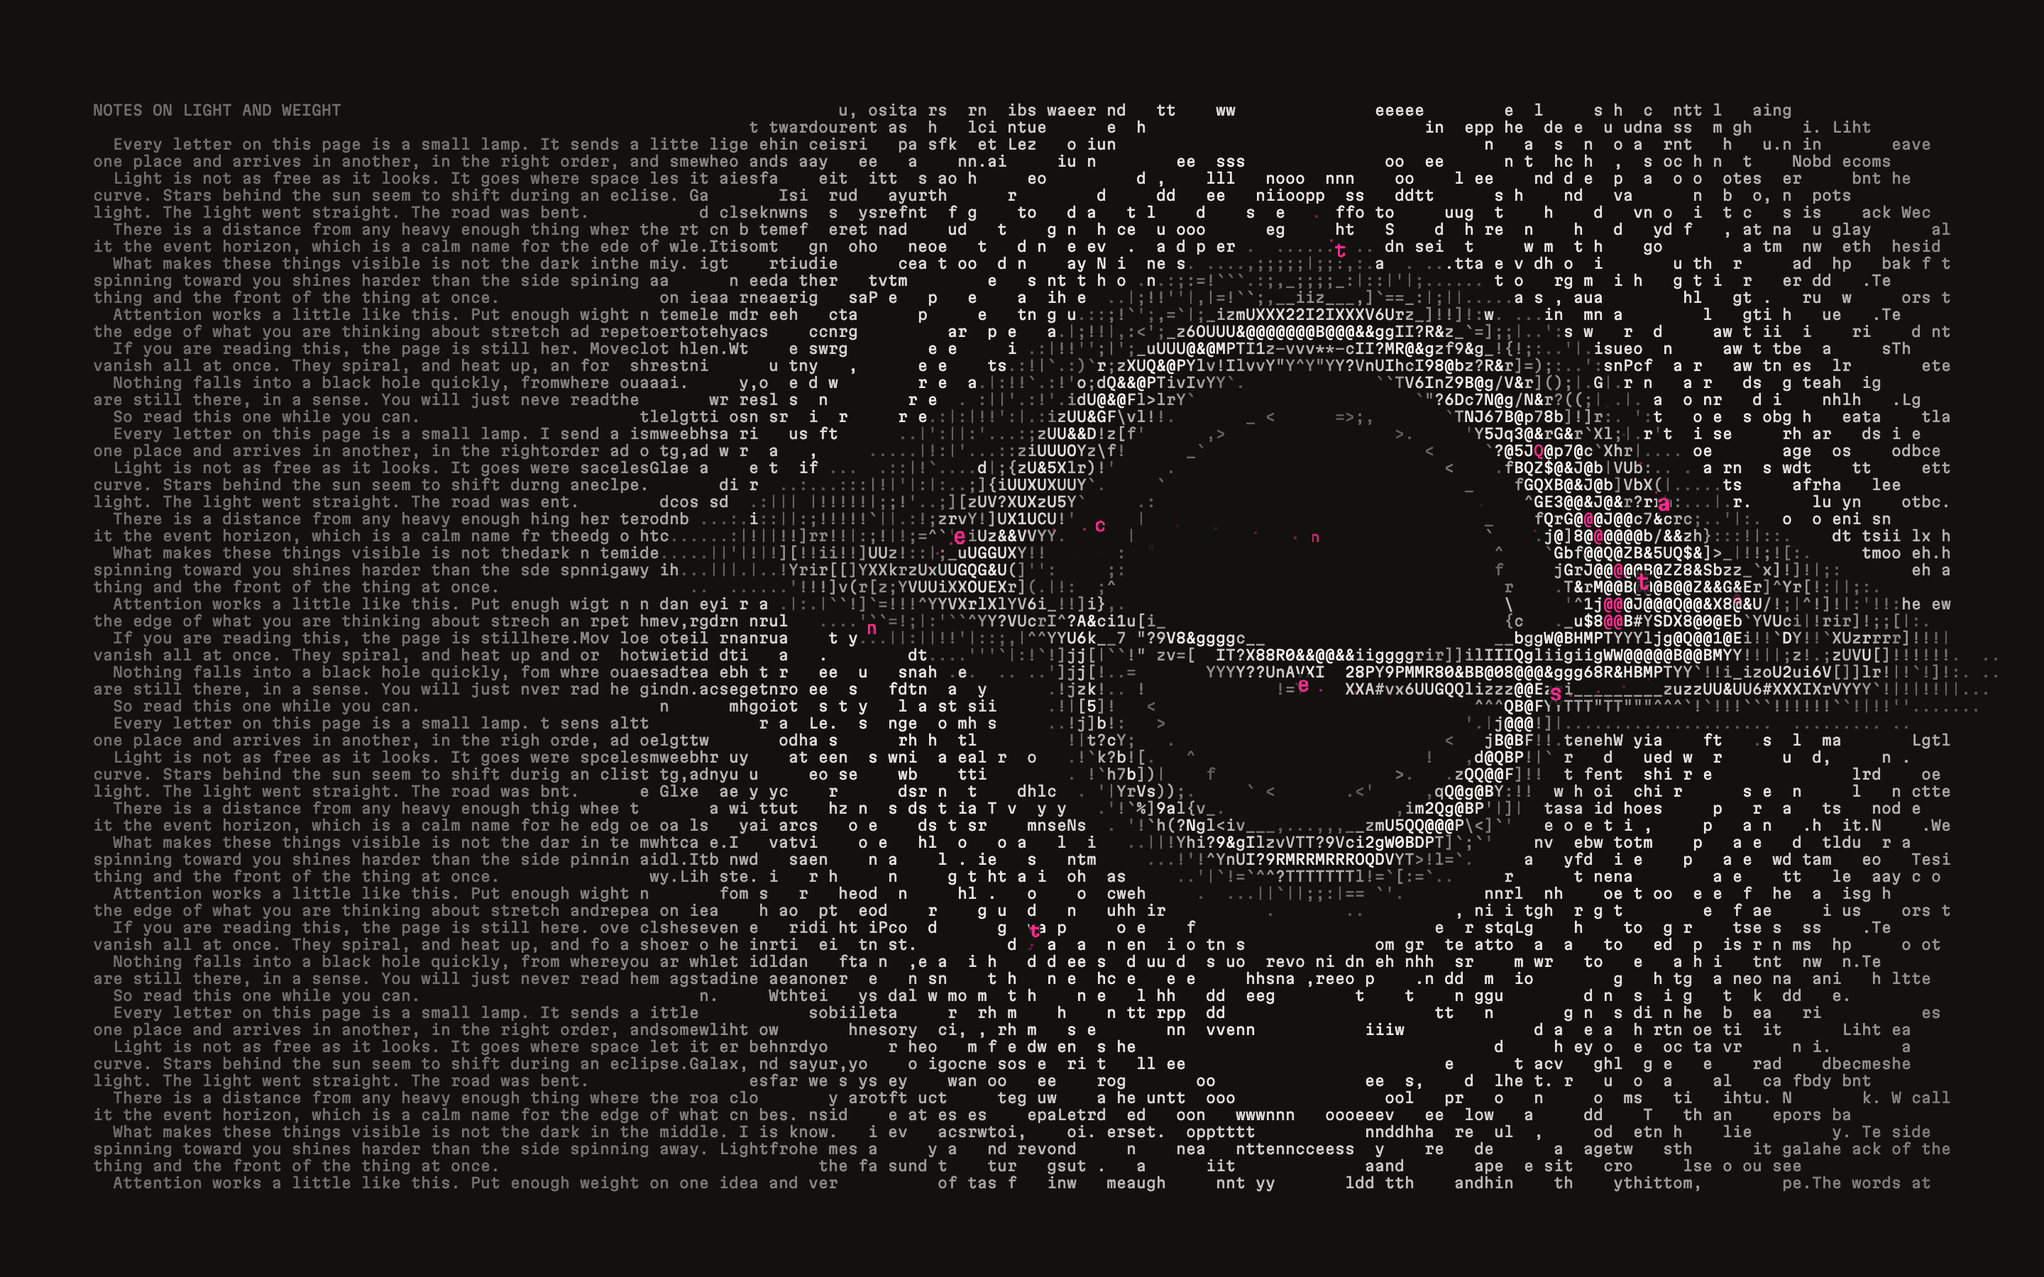
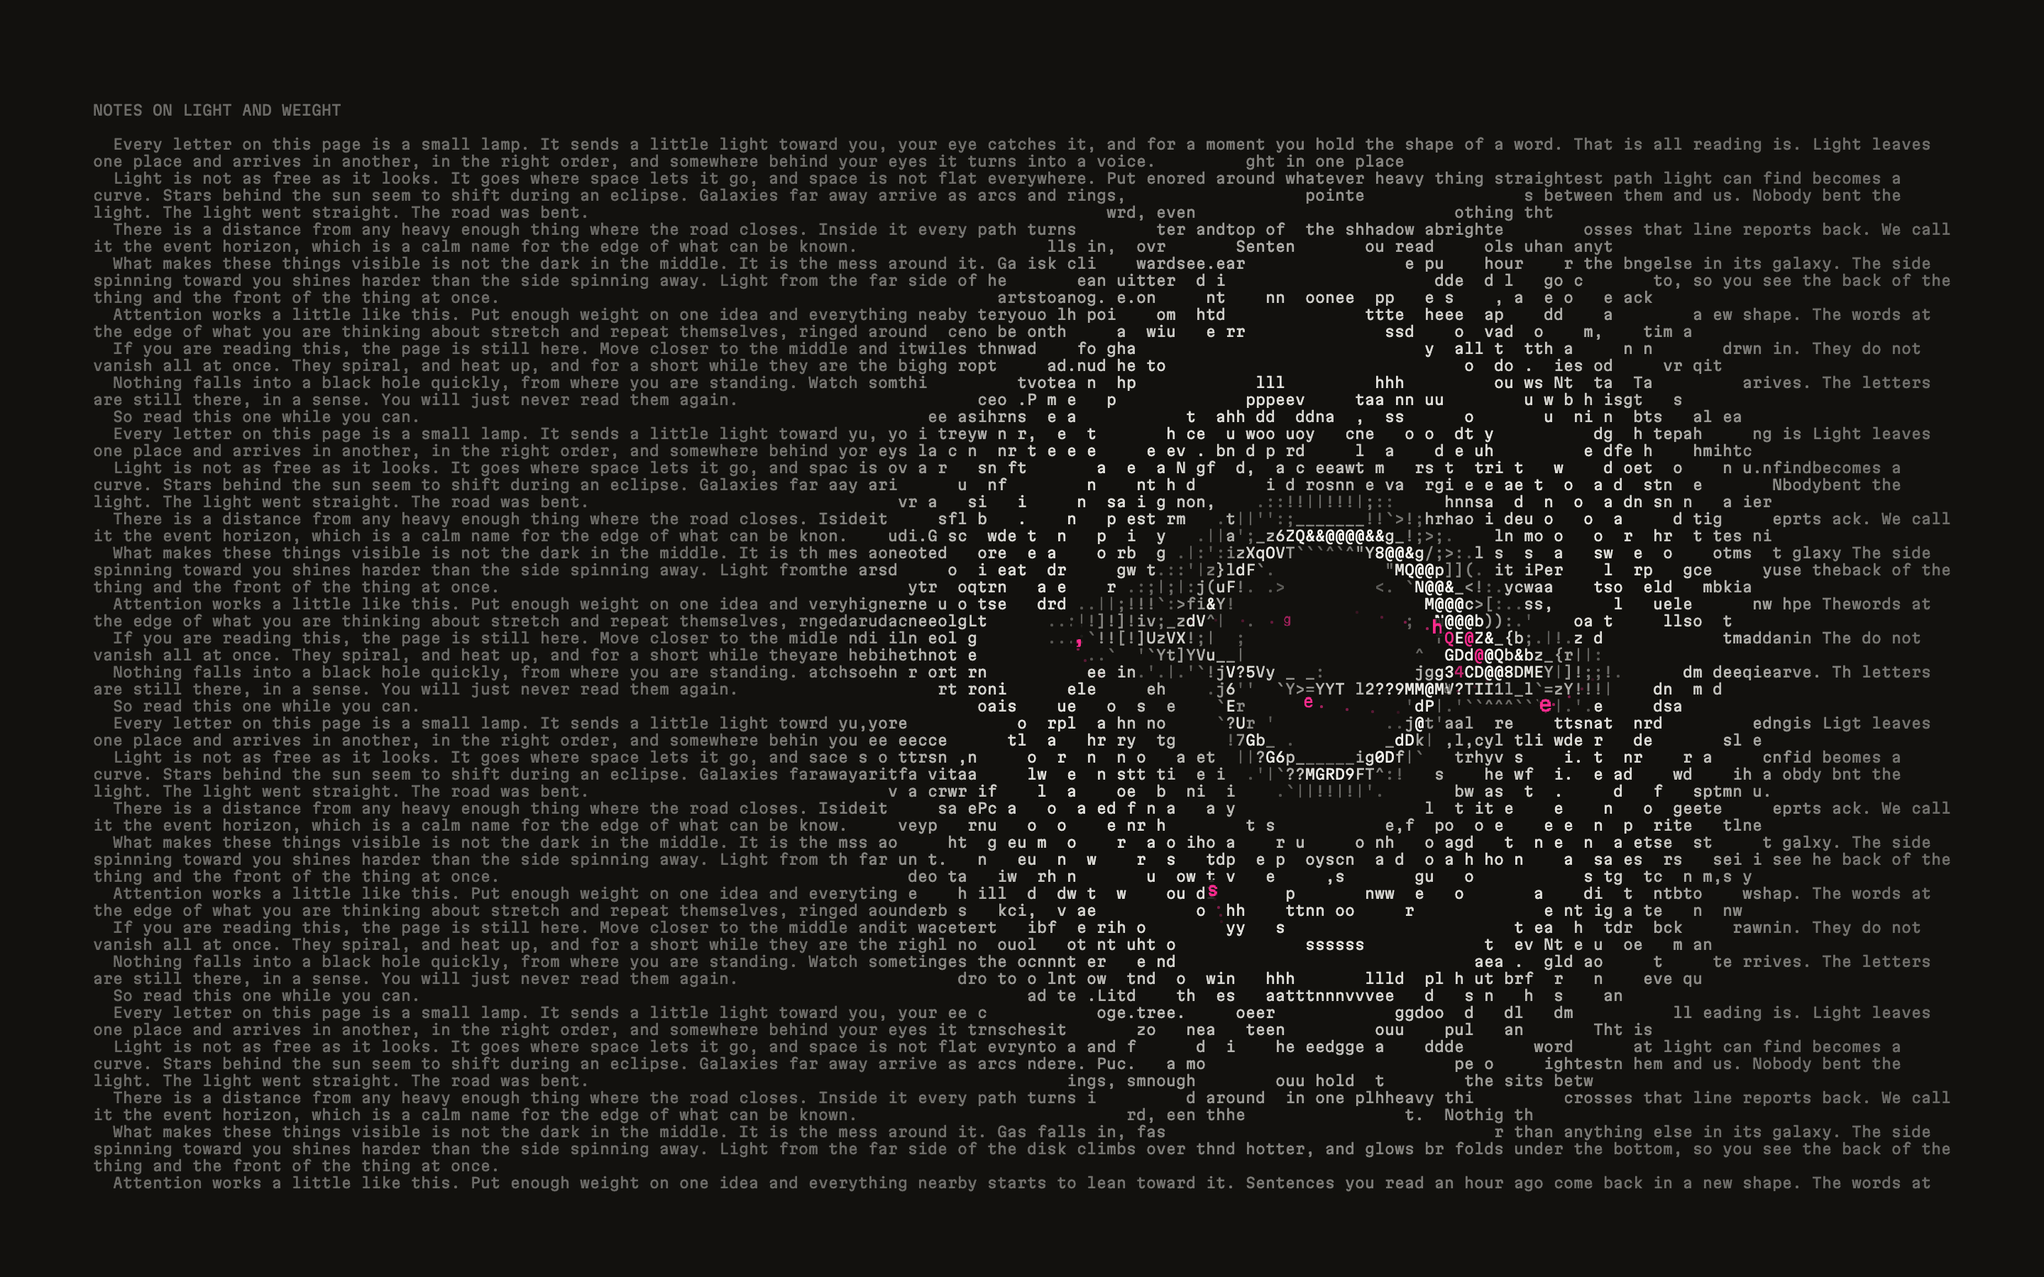
Smaller hole by default, no mouse steering
The hole now defaults to mass 0.45 and only drifts on its own. Click feeds,
drag tilts and scroll sets mass. Refresh the demo gif and screenshots.

Claude-Session: https://claude.ai/code/session_012tc5q7iBU7T3r3gFG3KRyg

Changed region(s): [[0.25, 0.0622, 0.9688, 0.9333]]

diff --git a/src/ui/pointer.js b/src/ui/pointer.js
@@ -1,5 +1,5 @@
 import { S, save } from '../settings.js';
-import { G, H, st, ptr } from '../state.js';
+import { H, ptr } from '../state.js';
 import { $, clamp } from '../util.js';
 import { stage } from './dom.js';
 import { dropHint } from './hud.js';
@@ -11,16 +11,7 @@ let pinch = null;
 
 export function resetPointers() { pinch = null; pointers.clear(); }
 
-// client pixels to the hole's screen units, origin at the center of the grid
-function toUnit(e) {
-  const r = G.rect || { x: 0, y: 0, w: innerWidth, h: innerHeight };
-  const dpr = G.dpr;
-  const x = ((e.clientX - r.x) * dpr - G.offX - G.gw / 2) / G.unit;
-  const y = -((e.clientY - r.y) * dpr - G.offY - G.gh / 2) / G.unit;
-  return [x, y];
-}
-
-// mouse: move steers, drag tilts, click feeds, wheel sets mass. touch: drag steers, tap feeds, pinch sets mass
+// the hole drifts on its own; click or tap feeds, drag tilts, wheel or pinch sets mass
 export function initPointer() {
   stage.addEventListener('pointermove', (e) => {
     if (!S.mouse) return;
@@ -30,8 +21,7 @@ export function initPointer() {
       setMass(pinch.m * Math.hypot(a.x - b.x, a.y - b.y) / pinch.d);
       return;
     }
-    const touchDrag = e.pointerType !== 'mouse';
-    if (ptr.down && !touchDrag) {
+    if (ptr.down) {
       const dx = e.clientX - ptr.lx, dy = e.clientY - ptr.ly;
       if (!ptr.dragging && Math.hypot(e.clientX - ptr.sx, e.clientY - ptr.sy) > 6) { ptr.dragging = true; stage.classList.add('dragging'); dropHint(); }
       if (ptr.dragging) {
@@ -40,11 +30,7 @@ export function initPointer() {
         syncRange($('#s-tilt')); save();
       }
       ptr.lx = e.clientX; ptr.ly = e.clientY;
-      return;
     }
-    const [x, y] = toUnit(e);
-    ptr.tx = x; ptr.ty = y; ptr.real = true; ptr.lastMove = st.real;
-    if (ptr.down && Math.hypot(e.clientX - ptr.sx, e.clientY - ptr.sy) > 6) { ptr.dragging = false; ptr.moved = true; }
   });
 
   stage.addEventListener('pointerdown', (e) => {
@@ -56,9 +42,7 @@ export function initPointer() {
       pinch = { d: Math.max(10, Math.hypot(a.x - b.x, a.y - b.y)), m: S.mass };
       ptr.down = false; ptr.dragging = false; return;
     }
-    const [x, y] = toUnit(e);
-    if (e.pointerType !== 'mouse') { ptr.tx = x; ptr.ty = y; ptr.real = true; ptr.lastMove = st.real; }
-    ptr.down = true; ptr.dragging = false; ptr.moved = false; ptr.sx = ptr.lx = e.clientX; ptr.sy = ptr.ly = e.clientY; ptr.t0 = performance.now();
+    ptr.down = true; ptr.dragging = false; ptr.sx = ptr.lx = e.clientX; ptr.sy = ptr.ly = e.clientY; ptr.t0 = performance.now();
   });
 
   const endPointer = (e) => {
@@ -68,14 +52,12 @@ export function initPointer() {
     if (!ptr.down) return;
     ptr.down = false;
     stage.classList.remove('dragging');
-    const wasDrag = ptr.dragging || ptr.moved;
+    const wasDrag = ptr.dragging;
     ptr.dragging = false;
     if (!wasDrag && e.type === 'pointerup' && performance.now() - ptr.t0 < 450) { dropHint(); feed(); }
   };
   stage.addEventListener('pointerup', endPointer);
   stage.addEventListener('pointercancel', endPointer);
-  // leaving the stage hands the hole back to the idle drift sooner
-  stage.addEventListener('pointerleave', (e) => { if (S.mouse && e.pointerType === 'mouse' && !ptr.down) ptr.lastMove = st.real - 2; });
   stage.addEventListener('wheel', (e) => {
     e.preventDefault();
     if (!S.mouse) return;

diff --git a/index.html b/index.html
@@ -17,7 +17,7 @@
   <script type="module" src="src/main.js"></script>
 </head>
 <body>
-  <main class="stage" id="stage" aria-label="A page of text with a black hole on it, drawn live in letters. Move to steer the hole, click to feed it, drag to tilt its disk, scroll to change its mass.">
+  <main class="stage" id="stage" aria-label="A page of text with a black hole on it, drawn live in letters. Click to feed the hole, drag to tilt its disk, scroll to change its mass.">
     <canvas id="cv"></canvas>
     <noscript><p class="fallback">This demo renders live with JavaScript and WebGL 2.</p></noscript>
   </main>
@@ -40,7 +40,7 @@
     <div class="meta">
       <span class="hint" id="hint"></span>
       <span class="stats" id="stats" hidden></span>
-      <span class="mass" id="mass">M 1.00</span>
+      <span class="mass" id="mass">M 0.45</span>
     </div>
   </footer>
 
@@ -49,12 +49,12 @@
   <aside class="panel" id="panel" aria-label="Settings">
     <section class="grp">
       <h2>Hole</h2>
-      <div class="rngrow"><div class="row"><label for="s-mass">Mass</label><output id="o-mass" for="s-mass"></output></div><input class="rng" id="s-mass" type="range" min="0.4" max="1.8" step="0.01" data-k="mass"></div>
+      <div class="rngrow"><div class="row"><label for="s-mass">Mass</label><output id="o-mass" for="s-mass"></output></div><input class="rng" id="s-mass" type="range" min="0.2" max="1.8" step="0.01" data-k="mass"></div>
       <div class="rngrow"><div class="row"><label for="s-bright">Disk brightness</label><output id="o-bright" for="s-bright"></output></div><input class="rng" id="s-bright" type="range" min="0" max="2" step="0.05" data-k="bright"></div>
       <div class="rngrow"><div class="row"><label for="s-spin">Spin</label><output id="o-spin" for="s-spin"></output></div><input class="rng" id="s-spin" type="range" min="0" max="2" step="0.05" data-k="spin"></div>
       <div class="rngrow"><div class="row"><label for="s-tilt">Tilt</label><output id="o-tilt" for="s-tilt"></output></div><input class="rng" id="s-tilt" type="range" min="0" max="88" step="1" data-k="tilt"></div>
       <div class="row"><span class="lb" id="l-eat">Eat letters</span><button class="sw" role="switch" data-k="eat" aria-labelledby="l-eat"><i></i></button></div>
-      <div class="row"><span class="lb" id="l-mouse">Mouse steers</span><button class="sw" role="switch" data-k="mouse" aria-labelledby="l-mouse" aria-keyshortcuts="M"><i></i></button></div>
+      <div class="row"><span class="lb" id="l-mouse">Mouse controls</span><button class="sw" role="switch" data-k="mouse" aria-labelledby="l-mouse" aria-keyshortcuts="M"><i></i></button></div>
       <div class="row"><span class="lb" id="l-drift">Drift when idle</span><button class="sw" role="switch" data-k="drift" aria-labelledby="l-drift"><i></i></button></div>
     </section>
 
@@ -88,7 +88,7 @@
         <dt>1, 2, 3</dt><dd>Edge on, tilted, face on</dd>
         <dt>Up, Down</dt><dd>More or less mass</dd>
         <dt>F</dt><dd>Feed the hole</dd>
-        <dt>M</dt><dd>Mouse steers on or off</dd>
+        <dt>M</dt><dd>Mouse on or off</dd>
         <dt>H</dt><dd>Hide the interface</dd>
         <dt>S</dt><dd>Settings</dd>
         <dt>T</dt><dd>Next theme</dd>

diff --git a/src/sim/tick.js b/src/sim/tick.js
@@ -1,7 +1,7 @@
 import { THEMES } from '../config.js';
 import { S, reduced } from '../settings.js';
 import { G, H, U, st, ptr, perf, col } from '../state.js';
-import { clamp, ss, lerp, hex, DEG } from '../util.js';
+import { clamp, ss, hex, DEG } from '../util.js';
 import { el } from '../ui/dom.js';
 import { syncSpec } from '../ui/hud.js';
 import { introAt } from './hole.js';
@@ -10,24 +10,18 @@ import { eat, stepParts } from './eat.js';
 let fpsE = 60, statT = 0;
 
 export function tick(dt) {
-  st.real += dt;
   if (perf.ss === 6) { perf.slow = dt > 0.022 ? perf.slow + dt : Math.max(0, perf.slow - dt * 0.5); if (perf.slow > 1.5) perf.ss = 1; }
   const rm = reduced();
   const sdt = st.paused ? 0 : dt;
   st.intro += sdt; st.sim += sdt;
   const I = introAt(st.intro);
 
-  // pointer: real when recent, otherwise a slow phantom so a hands-off take still moves
-  const idle = st.real - ptr.lastMove > 2.5;
-  const live = S.mouse && ptr.real;
-  let tx = ptr.tx, ty = ptr.ty;
-  if (!live || idle) {
-    if (S.drift && !rm) {
-      const t = st.sim, w = ss(3.2, 6.5, st.intro);
-      tx = w * (0.3 * Math.sin(t * 0.17) + 0.07 * Math.sin(t * 0.43 + 1));
-      ty = w * (0.1 * Math.sin(t * 0.23 + 0.6) + 0.04 * Math.sin(t * 0.51));
-      if (live) { tx = lerp(ptr.tx, tx, ss(2.5, 5, st.real - ptr.lastMove)); ty = lerp(ptr.ty, ty, ss(2.5, 5, st.real - ptr.lastMove)); }
-    } else if (!live) { tx = H.tx; ty = H.ty; }
+  // the hole wanders on a slow looping path, or holds still with drift off
+  let tx = H.tx, ty = H.ty;
+  if (S.drift && !rm) {
+    const t = st.sim, w = ss(3.2, 6.5, st.intro);
+    tx = w * (0.3 * Math.sin(t * 0.17) + 0.07 * Math.sin(t * 0.43 + 1));
+    ty = w * (0.1 * Math.sin(t * 0.23 + 0.6) + 0.04 * Math.sin(t * 0.51));
   }
   const lim = [G.gw / 2 / G.unit - 0.04, G.gh / 2 / G.unit - 0.04];
   H.tx = clamp(tx, -lim[0], lim[0]); H.ty = clamp(ty, -lim[1], lim[1]);

diff --git a/src/ui/actions.js b/src/ui/actions.js
@@ -11,7 +11,7 @@ import { syncRange, placeInd } from './controls.js';
 import { resetPointers } from './pointer.js';
 
 export function feed() {
-  if (U.rs < 0.2) return;
+  if (U.rs < 0.2 * S.mass) return;
   H.kickV += 4.2;
   H.pulseT = 0; H.pulseA = 3.2;
   if (S.eat && !reduced()) setTimeout(() => eat(0, true), 60);
@@ -24,7 +24,7 @@ export function restore(msg = true) {
 
 export function replay() {
   st.intro = 0; H.kick = H.kickV = 0; H.pulseA = 0;
-  H.x = H.y = H.vx = H.vy = 0; ptr.real = false;
+  H.x = H.y = H.vx = H.vy = 0;
   restore(false);
 }
 
@@ -34,7 +34,7 @@ export function view(i) {
   toast(`${v.name}.`);
 }
 
-export function setMass(m) { S.mass = clamp(m, 0.4, 1.8); syncRange($('#s-mass')); save(); }
+export function setMass(m) { S.mass = clamp(m, 0.2, 1.8); syncRange($('#s-mass')); save(); }
 
 export function applyTheme(instant) {
   const t = THEMES[S.theme] || THEMES.stage;
@@ -45,14 +45,14 @@ export function applyTheme(instant) {
 
 export function applyMouse(announce) {
   if (!S.mouse) {
-    ptr.real = false; ptr.down = false; ptr.dragging = false; resetPointers();
+    ptr.down = false; ptr.dragging = false; resetPointers();
     stage.classList.remove('dragging');
   }
   stage.classList.toggle('nomouse', !S.mouse);
   el.hint.textContent = S.mouse ? HINT : HINT_OFF;
   if (announce) {
     if (!S.mouse) showHint(); else el.hint.classList.remove('gone');
-    toast(S.mouse ? 'Mouse steers the hole.' : 'Mouse ignored. The hole drifts on its own.');
+    toast(S.mouse ? 'Mouse on.' : 'Mouse ignored.');
   }
 }
 

diff --git a/src/state.js b/src/state.js
@@ -19,10 +19,10 @@ export const H = {
 // per frame values handed to the shaders
 export const U = { rs: 0, disk: 0, rout: ROUT, flash: 1, dot: 0 };
 
-// clocks: intro timeline, sim time, wall time, smoothed hole speed
-export const st = { paused: false, intro: 0, sim: 0, real: 0, speed: 0 };
+// clocks: intro timeline, sim time, smoothed hole speed
+export const st = { paused: false, intro: 0, sim: 0, speed: 0 };
 
-export const ptr = { tx: 0, ty: 0, real: false, lastMove: -1e9, down: false, dragging: false, moved: false, sx: 0, sy: 0, lx: 0, ly: 0, t0: 0 };
+export const ptr = { down: false, dragging: false, sx: 0, sy: 0, lx: 0, ly: 0, t0: 0 };
 
 // supersampling drops from 6 rays to 1 per cell if frames run slow
 export const perf = { ss: 6, slow: 0 };

diff --git a/src/main.js b/src/main.js
@@ -1,5 +1,5 @@
 import { S } from './settings.js';
-import { G, H, U, st, ptr, perf, parts } from './state.js';
+import { G, H, U, st, perf, parts } from './state.js';
 import { initGL } from './gl/context.js';
 import { fontsReady } from './gl/glyphs.js';
 import { initRenderer, render } from './gl/renderer.js';
@@ -29,9 +29,8 @@ function boot() {
     placeAll();
   });
 
-  // hooks for scripted capture, e.g. __demo.seek(4); __demo.move(0.2, 0)
+  // hooks for scripted capture, e.g. __demo.seek(4); __demo.feed()
   window.__demo = {
-    move(x, y) { ptr.tx = x; ptr.ty = y; ptr.real = true; ptr.lastMove = st.real; },
     feed, replay, restore, view, setMass,
     seek(t) { st.intro = t; },
     pause(v = true) { setPaused(v); },

diff --git a/src/ui/hud.js b/src/ui/hud.js
@@ -1,7 +1,7 @@
 import { H } from '../state.js';
 import { el, isTouch } from './dom.js';
 
-export const HINT = isTouch ? 'Drag to steer. Tap to feed. Pinch for mass.' : 'Move to steer. Click to feed. Drag to tilt. Scroll for mass.';
+export const HINT = isTouch ? 'Tap to feed. Drag to tilt. Pinch for mass.' : 'Click to feed. Drag to tilt. Scroll for mass.';
 export const HINT_OFF = 'Pointer off. M to turn it on. Up, Down for mass. F to feed.';
 
 let hintGone = false;

diff --git a/src/config.js b/src/config.js
@@ -16,7 +16,7 @@ export const MAXP = 900, TRAIL = 4;
 /* ---------- settings ---------- */
 export const STORAGE_KEY = 'ascii-horizon-v1';
 export const DEFAULTS = {
-  mass: 1, bright: 1, spin: 1, tilt: 9, eat: true, drift: true, mouse: true,
+  mass: 0.45, bright: 1, spin: 1, tilt: 9, eat: true, drift: true, mouse: true,
   theme: 'stage', cell: innerWidth < 640 ? 8 : 10, ramp: 'shape', accent: true,
   aspect: 'fill', stats: false, ignoreReduced: false, text: ''
 };

diff --git a/README.md b/README.md
@@ -18,7 +18,7 @@ and the letters that get too close are peeled off the page and pulled in.
 
 <br>
 
-<img src="docs/media/demo.gif" alt="Steering the black hole across the page, feeding it, tilting the disk and switching themes" width="720">
+<img src="docs/media/demo.gif" alt="The black hole forming on a page of text, being fed, tilted and switched between themes" width="720">
 
 </div>
 
@@ -47,7 +47,7 @@ and the letters that get too close are peeled off the page and pulled in.
 - **Glyph shape matching.** The disk is not drawn with a brightness ramp. Each cell is sampled at six points and matched against the actual shape of all 95 printable ASCII characters, so edges get `/`, `(` and `_` where they belong.
 - **It eats.** Letters near the hole are pulled loose, light up pink, spiral in along the disk plane and fall through the horizon. A counter keeps score.
 - **Your own text.** Paste a tweet, a poem or your resume and the hole sits on that instead.
-- **Made for recording.** Hide all UI with one key, lock the frame to 16:9, 1:1 or 4:5, and let it drift on its own when you take your hands off.
+- **Made for recording.** Hide all UI with one key, lock the frame to 16:9, 1:1 or 4:5, and let it drift across the page on its own.
 - **Zero dependencies, no build step.** Plain HTML, CSS and ES modules. Open it with any static server.
 - **Accessible.** Full keyboard control, labelled controls, live region updates for screen readers, and it respects `prefers-reduced-motion`.
 
@@ -74,8 +74,7 @@ That's the whole setup. There is no bundler, no framework and no `node_modules`.
 
 | Action | What it does |
 | --- | --- |
-| **Move** | Steer the hole |
-| **Click** | Feed it. The mass kicks, a ripple runs through the page, and a burst of letters gets eaten |
+| **Click** | Feed the hole. The mass kicks, a ripple runs through the page, and a burst of letters gets eaten |
 | **Drag** | Tilt and roll the disk |
 | **Scroll** | Change the mass |
 
@@ -83,8 +82,8 @@ That's the whole setup. There is no bundler, no framework and no `node_modules`.
 
 | Action | What it does |
 | --- | --- |
-| **Drag** | Steer the hole |
-| **Tap** | Feed it |
+| **Drag** | Tilt and roll the disk |
+| **Tap** | Feed the hole |
 | **Pinch** | Change the mass |
 
 ### Keyboard
@@ -97,13 +96,13 @@ That's the whole setup. There is no bundler, no framework and no `node_modules`.
 | <kbd>1</kbd> <kbd>2</kbd> <kbd>3</kbd> | Edge on, tilted, face on |
 | <kbd>↑</kbd> <kbd>↓</kbd> | More or less mass |
 | <kbd>F</kbd> | Feed the hole |
-| <kbd>M</kbd> | Mouse steers on or off |
+| <kbd>M</kbd> | Mouse on or off |
 | <kbd>H</kbd> | Hide the interface, for recording |
 | <kbd>S</kbd> | Open settings |
 | <kbd>T</kbd> | Next theme |
 | <kbd>Esc</kbd> | Close settings, or show the interface again |
 
-When nobody touches it for a couple of seconds the hole drifts on its own, so a hands-off screen recording still moves.
+The hole drifts slowly across the page on its own, so a hands-off screen recording still moves.
 
 ## Settings
 
@@ -113,13 +112,13 @@ Open the panel with the slider icon or <kbd>S</kbd>. Everything is saved to `loc
 
 | Group | Setting | Notes |
 | --- | --- | --- |
-| **Hole** | Mass | Size of the event horizon, `0.40` to `1.80` |
+| **Hole** | Mass | Size of the event horizon, `0.20` to `1.80`, default `0.45` |
 | | Disk brightness | `0%` turns the disk off and leaves only the lens |
 | | Spin | How fast the disk turns. Higher spin also pulls the inner edge closer |
 | | Tilt | `0°` is edge on, `88°` is nearly face on |
 | | Eat letters | Turn the eating off to just watch the lens |
-| | Mouse steers | Off means the hole only drifts |
-| | Drift when idle | The slow phantom motion when you stop moving |
+| | Mouse controls | Off ignores clicks, drags and scrolls |
+| | Drift when idle | The slow wander across the page. Off keeps the hole in the center |
 | **Look** | Theme | Paper, Stage (dark) and Pink |
 | | Cell size | `6` to `18` px. Smaller cells mean more letters and more detail |
 | | Disk glyphs | **Shape** matches glyph shapes, **Ramp** uses ` .:-=+*#%@`, **01** is binary |
@@ -201,7 +200,7 @@ It then spirals in along the plane of the disk, faster as it gets closer, lifts 
 
 ### 6. Feeling physical
 
-The hole follows the pointer on a slightly underdamped spring. Feeding it kicks the mass on a damped spring of its own and sends a ripple through the page. Colors ease between themes instead of snapping, and the intro is a single timeline: a calm page, a pink point, then the mass arrives and the disk lights up from the inside out.
+The hole wanders along a slow, looping path on a slightly underdamped spring. Feeding it kicks the mass on a damped spring of its own and sends a ripple through the page. Colors ease between themes instead of snapping, and the intro is a single timeline: a calm page, a pink point, then the mass arrives and the disk lights up from the inside out.
 
 ## Project structure
 
@@ -248,7 +247,6 @@ For scripted recordings, the page exposes a small API on `window.__demo`:
 ```js
 __demo.replay();          // restart the intro from a calm page
 __demo.seek(4);           // jump the intro timeline to 4 seconds
-__demo.move(0.2, -0.05);  // steer the hole, in screen units from the center
 __demo.feed();            // feed it
 __demo.view(2);           // 0 edge on, 1 tilted, 2 face on
 __demo.setMass(1.4);
